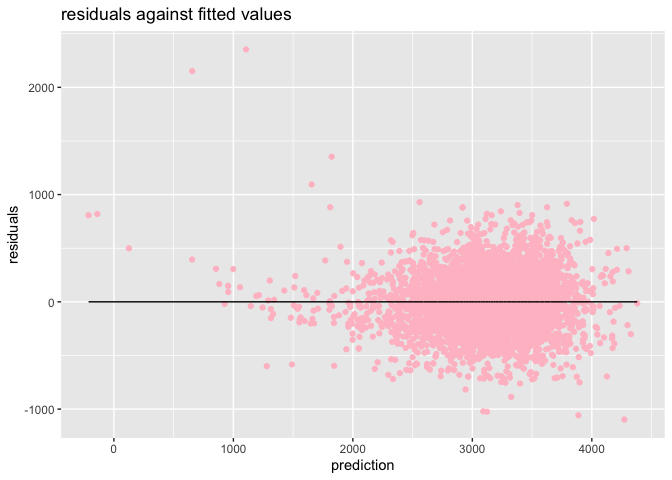
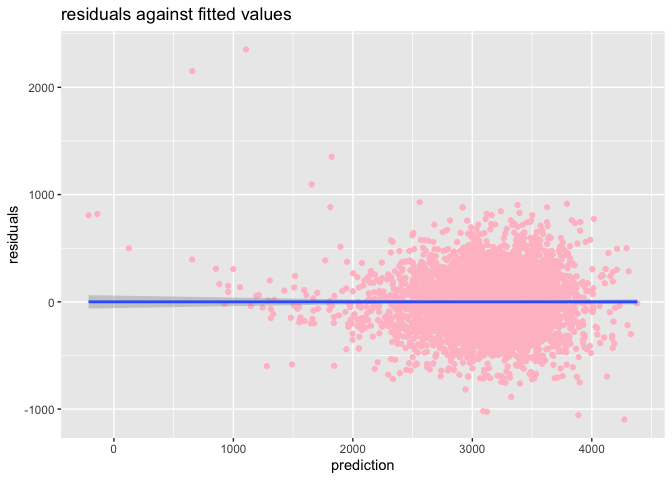
added some comments and changed formats of the plots

Changed region(s): [[0.125, 0.5938, 0.9688, 0.6562]]

diff --git a/hw-6.md b/hw-6.md
@@ -13,13 +13,31 @@ birthweight <- read_csv("data/birthweight.csv") %>% mutate(babysex = as.factor(b
          malform = as.factor(malform),
          mrace = as.factor(mrace)) %>% janitor::clean_names()
 
-summary(is.na(birthweight)) %>% knitr::kable()
+colSums(is.na(birthweight)) %>% knitr::kable()
 ```
 
-|  |    babysex    |     bhead     |    blength    |      bwt      |     delwt     |    fincome    |     frace     |    gaweeks    |    malform    |   menarche    |    mheight    |    momage     |     mrace     |    parity     |    pnumlbw    |    pnumsga    |     ppbmi     |     ppwt      |    smoken     |    wtgain     |
-|  | :-----------: | :-----------: | :-----------: | :-----------: | :-----------: | :-----------: | :-----------: | :-----------: | :-----------: | :-----------: | :-----------: | :-----------: | :-----------: | :-----------: | :-----------: | :-----------: | :-----------: | :-----------: | :-----------: | :-----------: |
-|  | Mode :logical | Mode :logical | Mode :logical | Mode :logical | Mode :logical | Mode :logical | Mode :logical | Mode :logical | Mode :logical | Mode :logical | Mode :logical | Mode :logical | Mode :logical | Mode :logical | Mode :logical | Mode :logical | Mode :logical | Mode :logical | Mode :logical | Mode :logical |
-|  |  FALSE:4342   |  FALSE:4342   |  FALSE:4342   |  FALSE:4342   |  FALSE:4342   |  FALSE:4342   |  FALSE:4342   |  FALSE:4342   |  FALSE:4342   |  FALSE:4342   |  FALSE:4342   |  FALSE:4342   |  FALSE:4342   |  FALSE:4342   |  FALSE:4342   |  FALSE:4342   |  FALSE:4342   |  FALSE:4342   |  FALSE:4342   |  FALSE:4342   |
+|          | x |
+| -------- | -: |
+| babysex  | 0 |
+| bhead    | 0 |
+| blength  | 0 |
+| bwt      | 0 |
+| delwt    | 0 |
+| fincome  | 0 |
+| frace    | 0 |
+| gaweeks  | 0 |
+| malform  | 0 |
+| menarche | 0 |
+| mheight  | 0 |
+| momage   | 0 |
+| mrace    | 0 |
+| parity   | 0 |
+| pnumlbw  | 0 |
+| pnumsga  | 0 |
+| ppbmi    | 0 |
+| ppwt     | 0 |
+| smoken   | 0 |
+| wtgain   | 0 |
 
 From the summary above, we can see that there are no missing data. I
 converted babysex, frace, malform and mrace to factor. The data set
@@ -204,7 +222,7 @@ step(model1, direction = "both")
     ##      mrace4       parity         ppwt       smoken  
     ##    -100.678       96.305       -2.676       -4.843
 
-The model chosen from stepwise regression
+The model chosen from stepwise regression (for both directions)
 is:
 
 ``` r
@@ -250,21 +268,79 @@ The plot of model resuduals against fitted values are shown below:
 birthweight %>% 
   add_predictions(swmodel) %>% 
   add_residuals(swmodel) %>% ggplot(aes(x=pred, y=resid))+
-  geom_point(color="pink") + geom_line(aes(y=0))+labs(title = "residuals against fitted values", x="prediction", y="residuals")
+  geom_point(color="pink") + geom_smooth(method = "lm")+labs(title = "residuals against fitted values", x="prediction", y="residuals")
 ```
 
 ![](hw-6_files/figure-gfm/unnamed-chunk-4-1.png)<!-- -->
+
+The model has \(R^2\) of 0.718 which means 71.8% of the variablity of
+birthweight was explained by the model. The relationship between
+residuals and fitted values are not clear as we can see from the plot
+above.
 
 ## comparing models
 
 In order to compare those three models, I would like to use cross
 validation.
 
+The three models are
+\[stepwise: bwt\sim babysex + bhead + blength + delwt + fincome + gaweeks + mheight + mrace + parity + ppwt + smoken\\ main :bwt \sim gaweeks \\head:bwt \sim bhead + blength + babysex + bhead * blength * babysex\]
+The summary of the other two models are shown below:
+
 ``` r
 model_main = lm(bwt ~ gaweeks ,data = birthweight)
-
-model_head = lm(bwt ~ bhead + blength + babysex + bhead * blength * babysex ,data = birthweight)
+summary(model_main)
 ```
+
+    ## 
+    ## Call:
+    ## lm(formula = bwt ~ gaweeks, data = birthweight)
+    ## 
+    ## Residuals:
+    ##      Min       1Q   Median       3Q      Max 
+    ## -1730.52  -292.85    -0.78   303.47  1591.36 
+    ## 
+    ## Coefficients:
+    ##             Estimate Std. Error t value Pr(>|t|)    
+    ## (Intercept)  476.003     88.809    5.36 8.76e-08 ***
+    ## gaweeks       66.920      2.245   29.80  < 2e-16 ***
+    ## ---
+    ## Signif. codes:  0 '***' 0.001 '**' 0.01 '*' 0.05 '.' 0.1 ' ' 1
+    ## 
+    ## Residual standard error: 466.7 on 4340 degrees of freedom
+    ## Multiple R-squared:  0.1699, Adjusted R-squared:  0.1697 
+    ## F-statistic: 888.3 on 1 and 4340 DF,  p-value: < 2.2e-16
+
+``` r
+model_head = lm(bwt ~ bhead + blength + babysex + bhead * blength * babysex ,data = birthweight)
+summary(model_head)
+```
+
+    ## 
+    ## Call:
+    ## lm(formula = bwt ~ bhead + blength + babysex + bhead * blength * 
+    ##     babysex, data = birthweight)
+    ## 
+    ## Residuals:
+    ##      Min       1Q   Median       3Q      Max 
+    ## -1132.99  -190.42   -10.33   178.63  2617.96 
+    ## 
+    ## Coefficients:
+    ##                          Estimate Std. Error t value Pr(>|t|)    
+    ## (Intercept)            -7176.8170  1264.8397  -5.674 1.49e-08 ***
+    ## bhead                    181.7956    38.0542   4.777 1.84e-06 ***
+    ## blength                  102.1269    26.2118   3.896 9.92e-05 ***
+    ## babysex2                6374.8684  1677.7669   3.800 0.000147 ***
+    ## bhead:blength             -0.5536     0.7802  -0.710 0.478012    
+    ## bhead:babysex2          -198.3932    51.0917  -3.883 0.000105 ***
+    ## blength:babysex2        -123.7729    35.1185  -3.524 0.000429 ***
+    ## bhead:blength:babysex2     3.8781     1.0566   3.670 0.000245 ***
+    ## ---
+    ## Signif. codes:  0 '***' 0.001 '**' 0.01 '*' 0.05 '.' 0.1 ' ' 1
+    ## 
+    ## Residual standard error: 287.7 on 4334 degrees of freedom
+    ## Multiple R-squared:  0.6849, Adjusted R-squared:  0.6844 
+    ## F-statistic:  1346 on 7 and 4334 DF,  p-value: < 2.2e-16
 
 ``` r
 set.seed(100)
@@ -296,3 +372,89 @@ has the lowest rmse among those three models so the this model has
 better fit compare to the other two. For the comparison between main
 effect model and the interaction model, the interaction model has lower
 rmse than the other one.
+
+## Problem 2
+
+``` r
+weather_df = 
+  rnoaa::meteo_pull_monitors(
+    c("USW00094728"),
+    var = c("PRCP", "TMIN", "TMAX"), 
+    date_min = "2017-01-01",
+    date_max = "2017-12-31") %>%
+  mutate(
+    name = recode(id, USW00094728 = "CentralPark_NY"),
+    tmin = tmin / 10,
+    tmax = tmax / 10) %>%
+  select(name, id, everything())
+```
+
+# bootstrap
+
+``` r
+set.seed(100)
+
+results = weather_df %>% 
+  bootstrap(5000) %>% mutate(model = map(strap, ~lm(tmax~tmin, data = .x)),coefficient = map(model, broom::tidy),  summary = map(model, broom::glance)) %>% 
+  select(-strap,-model) %>% unnest(summary, coefficient) %>% mutate(term=recode(term, "(Intercept)" = "beta0", "tmin"="beta1")) %>%
+  select(r.squared, adj.r.squared, term, estimate)  %>%  pivot_wider(names_from = term, values_from = estimate) %>% mutate(log = log(beta0*beta1))
+```
+
+    ## Warning: unnest() has a new interface. See ?unnest for details.
+    ## Try `df %>% unnest(c(summary, coefficient))`, with `mutate()` if needed
+
+``` r
+results[1:5,] %>% 
+  select(r.squared, adj.r.squared,log) %>% knitr::kable()
+```
+
+| r.squared | adj.r.squared |      log |
+| --------: | ------------: | -------: |
+| 0.9033037 |     0.9030373 | 2.025275 |
+| 0.8870431 |     0.8867319 | 2.044843 |
+| 0.9187228 |     0.9184989 | 1.999614 |
+| 0.9158852 |     0.9156535 | 1.999788 |
+| 0.9245112 |     0.9243032 | 2.020667 |
+
+We can see from the glance of the data set that the data contains our
+main interest of \(\hatR^2\) and
+\(log(\hat\beta_0 * \hat\beta_1)\).
+
+## distribution of log beta
+
+``` r
+results %>% ggplot(aes(x = log)) + geom_density(fill = "pink") +labs(title = "distribution of log(beta0*beta1)",x = "log(beta0*beta1)")
+```
+
+![](hw-6_files/figure-gfm/unnamed-chunk-9-1.png)<!-- -->
+
+``` r
+quantile(pull(results,log),c(0.025,0.975))
+```
+
+    ##     2.5%    97.5% 
+    ## 1.964370 2.057061
+
+The 95% confidence interval for \(log(\hat\beta_0 * \hat\beta_1)\) is
+between (1.964, 2.057). From the plot we can see that the distribution
+is kind of normal with a little longer tail on the left
+side.
+
+## distribution of r-squared
+
+``` r
+results %>% ggplot(aes(x = r.squared)) + geom_density(fill = "grey") +labs(title = "distribution of r squared",x = "r squared")
+```
+
+![](hw-6_files/figure-gfm/unnamed-chunk-11-1.png)<!-- -->
+
+``` r
+quantile(pull(results,r.squared),c(0.025,0.975))
+```
+
+    ##      2.5%     97.5% 
+    ## 0.8938654 0.9271376
+
+The 95% confidence interval for \(R^2\) is between (0.894, 0.927). From
+the plot we can see that the distribution is kind of normal and a little
+bit right skewed.
